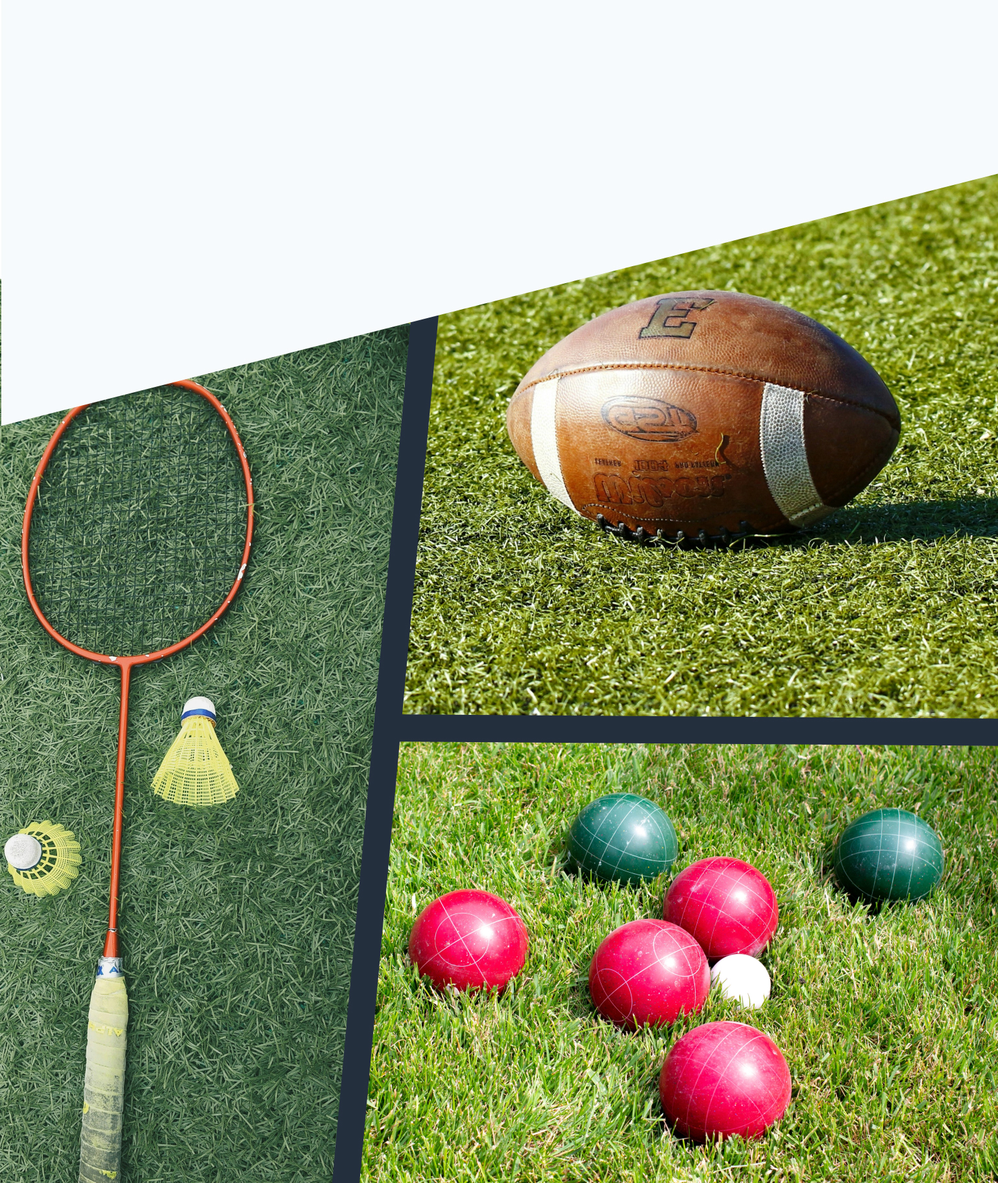
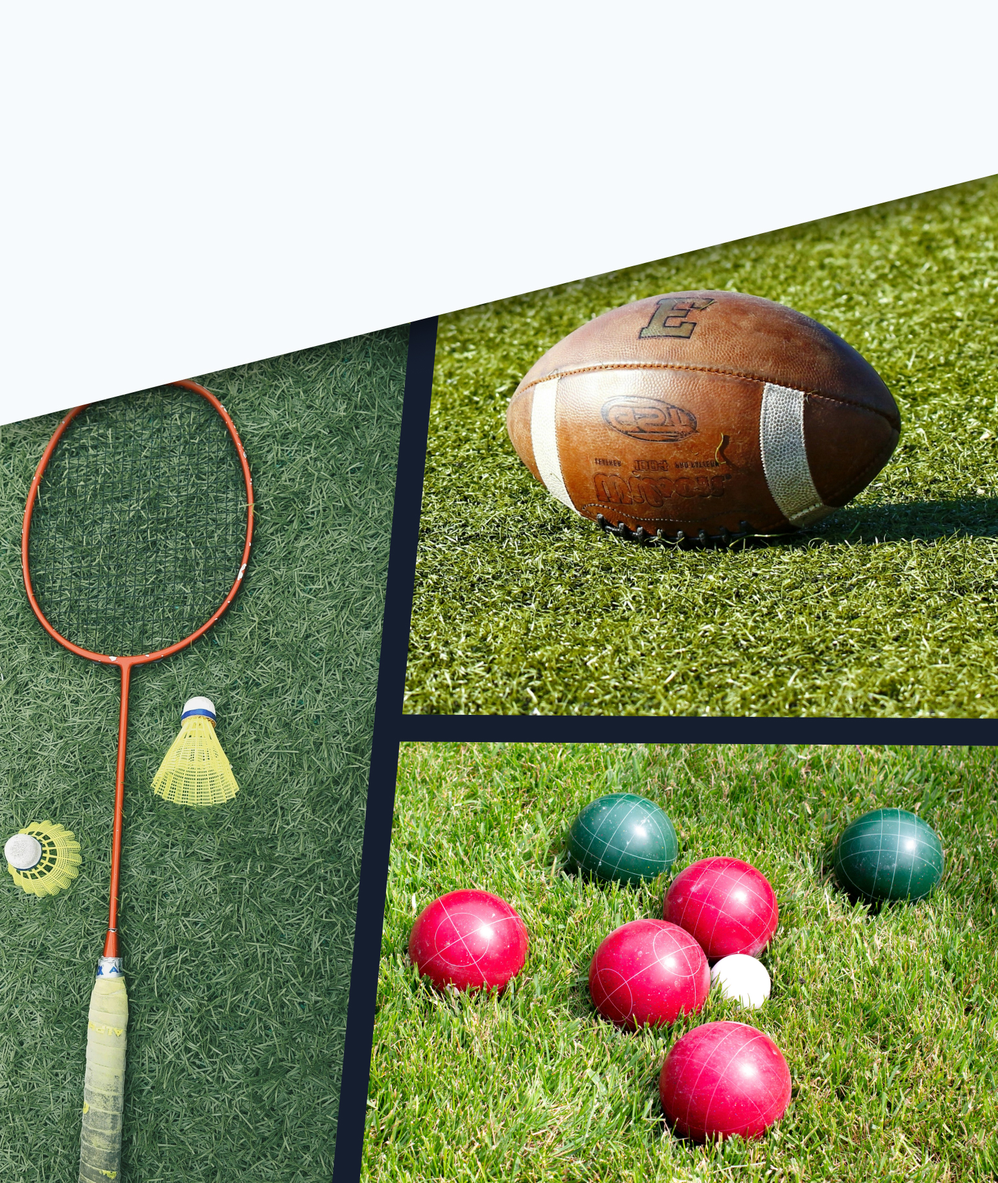
.

Changed region(s): [[0.0, 0.1229, 1.0, 0.3688]]

diff --git a/assets/css/style.css b/assets/css/style.css
@@ -4,7 +4,7 @@
     --secondary: #26497D;
     --support1: #95EA34;
     --suport2: #26497D;
-    --dark: #2A374A;
+    --dark: #151E2F;
     --light: #F7FAFC;
 }
 
